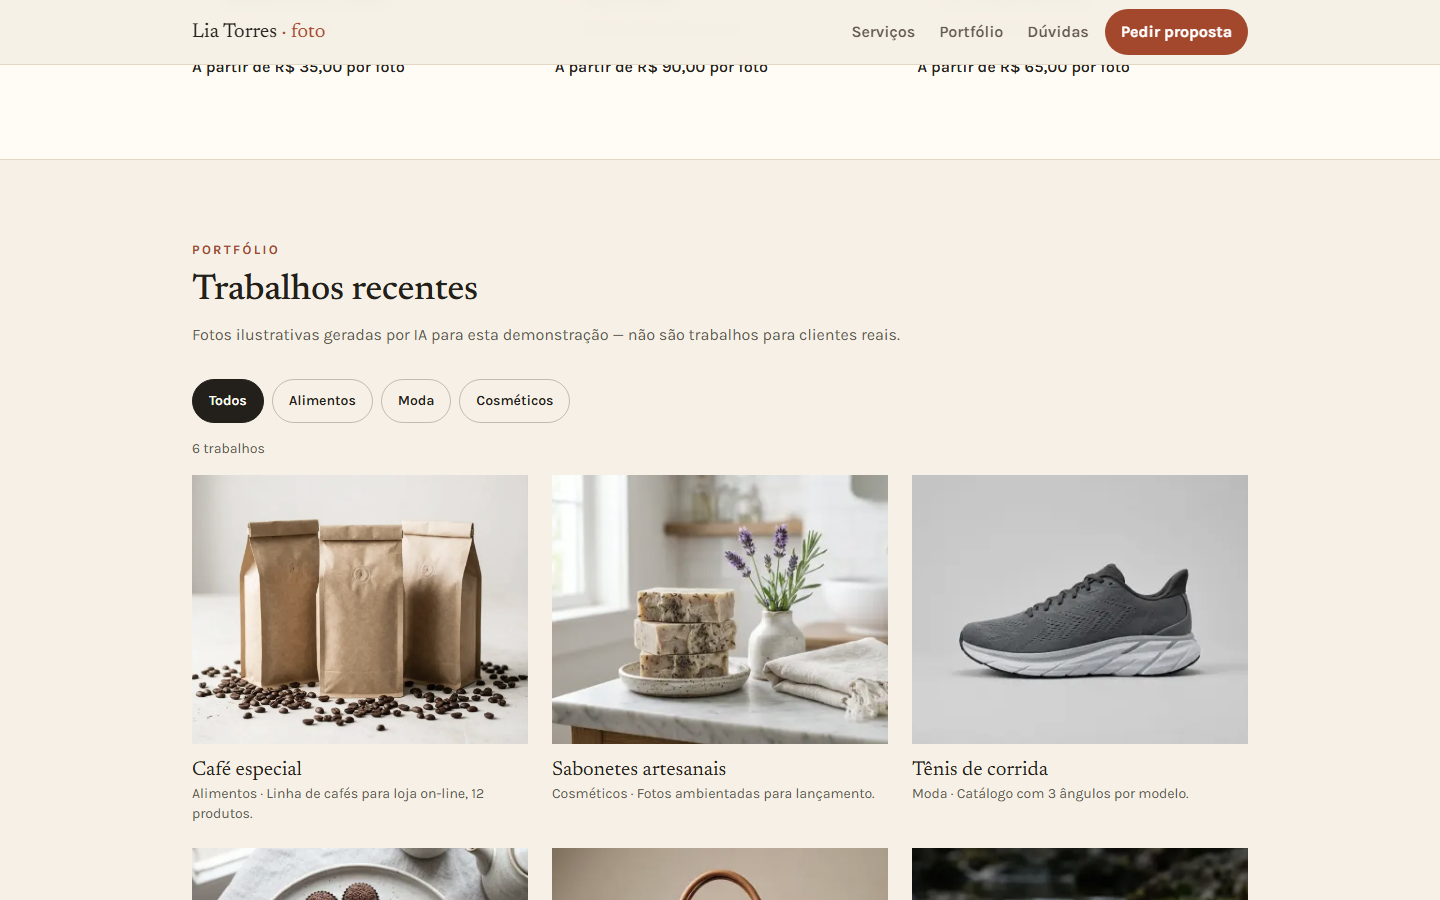
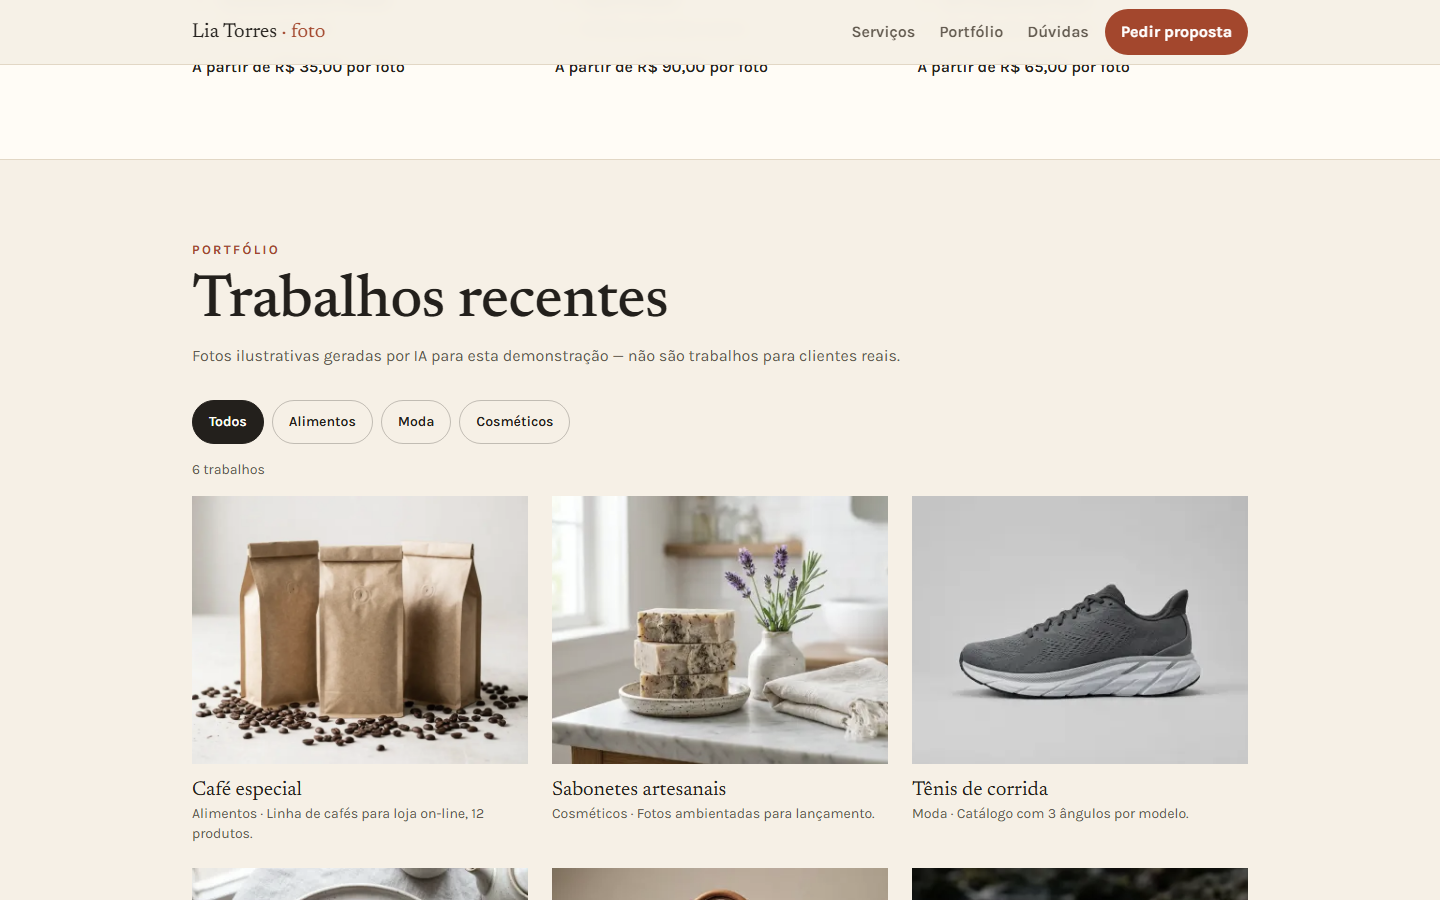
Serviços e fotógrafa com página inicial nova
- Resolve: abre com foto em tela cheia, seção dos três passos do
  orçamento e foto em cada tipo de serviço
- Lia Torres: título grande e mosaico de trabalhos de ponta a ponta,
  serviços numerados
- Capturas das duas demos atualizadas no portfólio

diff --git a/apps/servicos/src/app/page.tsx b/apps/servicos/src/app/page.tsx
@@ -1,26 +1,36 @@
 import { ArrowRight, Check, MapPin, X } from "lucide-react";
 import Link from "next/link";
+import { Faixa } from "@/components/faixa";
 import { Foto } from "@/components/foto";
 import { MessagePreview } from "@/components/message-preview";
 import { WorkArt } from "@/components/work-art";
 import { getServiceType, portfolioWorks, regions, serviceTypes } from "@/data/services";
 import { travelFeeLabel } from "@/lib/request";
 
+// Os três passos do pedido, como descritos no fluxo de solicitação.
+const passos = [
+  { titulo: "Escolha o serviço", texto: "Elétrica, pintura, manutenção, ar-condicionado ou hidráulica." },
+  { titulo: "Confirme a região", texto: "Você vê na hora se atendemos o seu bairro e a taxa de deslocamento." },
+  { titulo: "Conte o que precisa", texto: "Perguntas rápidas sobre o problema e os dias em que você pode receber a equipe." },
+];
+
 export default function HomePage() {
   return (
     <>
-      <section aria-labelledby="hero-title" className="relative overflow-hidden bg-petrol text-white">
+      <section aria-labelledby="hero-title" className="relative isolate overflow-hidden bg-petrol-dark text-white">
+        {/* Foto ilustrativa (gerada por IA) ocupando a abertura; o degradê garante a leitura do texto. */}
+        <Foto id="sala" preload sizes="100vw" className="fundo absolute inset-0 -z-20 size-full" />
         <div
           aria-hidden
-          className="pointer-events-none absolute inset-0 bg-[radial-gradient(40rem_24rem_at_100%_0%,rgb(255_255_255/0.12),transparent_70%)]"
+          className="absolute inset-0 -z-10 bg-gradient-to-r from-petrol-dark via-petrol-dark/90 to-petrol-dark/25 max-md:via-petrol-dark/88 max-md:to-petrol-dark/75"
         />
-        <div className="wrap relative grid items-center gap-12 py-14 sm:py-20 lg:grid-cols-[1.1fr_1fr]">
-         <div>
+        <div className="wrap relative flex min-h-[76svh] flex-col justify-center py-14 sm:py-20">
+         <div className="max-w-3xl">
           <p className="kicker !text-sun">Elétrica · pintura · manutenção · ar · hidráulica</p>
-          <h1 id="hero-title" className="mt-4 max-w-3xl text-4xl leading-tight sm:text-6xl">
+          <h1 id="hero-title" className="mt-4 max-w-3xl text-5xl leading-[1.04] sm:text-7xl">
             Diga o que precisa. A gente chega preparado.
           </h1>
-          <p className="mt-5 max-w-xl text-lg text-white/80">
+          <p className="mt-5 max-w-xl text-lg text-white/90">
             Escolha o serviço, confirme se atendemos a sua região e responda perguntas rápidas. O orçamento chega com
             menos idas e vindas.
           </p>
@@ -34,28 +44,44 @@ export default function HomePage() {
             </Link>
           </div>
          </div>
-         <div aria-hidden className="grid grid-cols-5 grid-rows-2 gap-3 sm:gap-4">
-            <Foto
-              id="sala"
-              preload
-              sizes="(min-width: 1024px) 330px, 60vw"
-              className="parallax col-span-3 row-span-2 h-full min-h-64 w-full rounded-3xl shadow-2xl shadow-black/40 sm:min-h-96"
-            />
-            <Foto id="painel" sizes="(min-width: 1024px) 220px, 40vw" className="parallax-inv col-span-2 aspect-square w-full rounded-3xl shadow-xl shadow-black/30" />
-            <Foto id="fachada" sizes="(min-width: 1024px) 220px, 40vw" className="parallax-inv col-span-2 aspect-square w-full rounded-3xl shadow-xl shadow-black/30" />
-         </div>
+        </div>
+      </section>
+
+      <Faixa className="bg-sun text-lg text-petrol-dark" itens={serviceTypes.map((service) => service.name)} />
+
+      <section aria-labelledby="passos-title" className="bg-petrol py-16 text-white sm:py-20">
+        <div className="wrap">
+          <p className="kicker !text-sun">Como funciona</p>
+          <h2 id="passos-title" className="mt-3 max-w-2xl text-4xl leading-tight sm:text-5xl">
+            Três passos e o orçamento sai certo de primeira.
+          </h2>
+          <ol className="mt-10 grid gap-5 md:grid-cols-3">
+            {passos.map((passo, index) => (
+              <li key={passo.titulo} className="rounded-card border border-white/15 bg-white/5 p-6">
+                <span aria-hidden className="block text-6xl font-bold text-sun">
+                  {index + 1}
+                </span>
+                <h3 className="mt-3 text-2xl">{passo.titulo}</h3>
+                <p className="mt-2 text-white/85">{passo.texto}</p>
+              </li>
+            ))}
+          </ol>
         </div>
       </section>
 
       <section id="servicos" aria-labelledby="servicos-title" className="wrap py-16 sm:py-20">
         <p className="kicker">Serviços</p>
-        <h2 id="servicos-title" className="mt-3 text-3xl sm:text-4xl">
+        <h2 id="servicos-title" className="mt-3 text-4xl sm:text-5xl">
           O que fazemos
         </h2>
-        <ul className="mt-10 grid gap-4 sm:grid-cols-2 lg:grid-cols-3">
-          {serviceTypes.map((service) => (
-            <li key={service.id} className="flex flex-col rounded-card border border-line bg-paper p-6">
-              <h3 className="text-xl">{service.name}</h3>
+        <ul className="mt-10 grid gap-5 sm:grid-cols-2 lg:grid-cols-3">
+          {serviceTypes.map((service) => {
+            const foto = portfolioWorks.find((work) => work.serviceId === service.id)?.id;
+            return (
+            <li key={service.id} className="flex flex-col overflow-hidden rounded-card border border-line bg-paper">
+              {foto && <Foto id={foto} sizes="(min-width: 1024px) 380px, (min-width: 640px) 50vw, 100vw" className="aspect-[16/10] w-full" />}
+              <div className="flex flex-1 flex-col p-6">
+              <h3 className="text-2xl">{service.name}</h3>
               <p className="mt-1 text-muted">{service.summary}</p>
               <ul className="mt-4 flex-1 space-y-1.5 text-sm">
                 {service.includes.map((item) => (
@@ -69,15 +95,17 @@ export default function HomePage() {
                 Pedir orçamento de {service.name.toLowerCase()}
                 <ArrowRight aria-hidden className="size-4" />
               </Link>
+              </div>
             </li>
-          ))}
+            );
+          })}
         </ul>
       </section>
 
       <section id="trabalhos" aria-labelledby="trabalhos-title" className="border-y border-line bg-paper py-16 sm:py-20">
         <div className="wrap">
           <p className="kicker">Trabalhos</p>
-          <h2 id="trabalhos-title" className="mt-3 text-3xl sm:text-4xl">
+          <h2 id="trabalhos-title" className="mt-3 text-4xl sm:text-5xl">
             Portfólio
           </h2>
           <p className="mt-3 text-muted">Fotos ilustrativas geradas por IA para esta demonstração — não são trabalhos reais.</p>

diff --git a/apps/autonomo/src/app/page.tsx b/apps/autonomo/src/app/page.tsx
@@ -1,5 +1,6 @@
 import { ArrowRight, Check } from "lucide-react";
 import Link from "next/link";
+import { Faixa } from "@/components/faixa";
 import { MessagePreview } from "@/components/message-preview";
 import { PortfolioGrid } from "@/components/portfolio-grid";
 import { WorkArt } from "@/components/work-art";
@@ -9,41 +10,54 @@ import { formatBRL } from "@/lib/money";
 export default function HomePage() {
   return (
     <>
-      <section aria-labelledby="hero-title" className="wrap grid items-center gap-10 py-14 sm:py-20 lg:grid-cols-[1.2fr_1fr]">
-        <div>
+      <section aria-labelledby="hero-title" className="overflow-hidden pt-14 sm:pt-20">
+        <div className="wrap">
           <p className="kicker">{professional.role}</p>
-          <h1 id="hero-title" className="mt-4 text-5xl leading-[1.05] sm:text-7xl">
+          <h1 id="hero-title" className="mt-4 max-w-5xl text-6xl leading-[0.98] sm:text-8xl lg:text-9xl">
             {professional.pitch}
           </h1>
-          <p className="mt-6 max-w-xl text-lg leading-relaxed text-muted">{professional.about}</p>
-          <div className="mt-8 flex flex-col gap-3 sm:flex-row">
-            <Link href="/proposta" className="btn btn-primary">
-              Pedir proposta
-              <ArrowRight aria-hidden className="size-4" />
-            </Link>
-            <Link href="#portfolio" className="btn btn-secondary">
-              Ver portfólio
-            </Link>
+          <div className="mt-8 grid gap-6 lg:grid-cols-[1.2fr_1fr] lg:items-end">
+            <p className="max-w-xl text-lg leading-relaxed text-muted">{professional.about}</p>
+            <div className="flex flex-col gap-3 sm:flex-row lg:justify-end">
+              <Link href="/proposta" className="btn btn-primary">
+                Pedir proposta
+                <ArrowRight aria-hidden className="size-4" />
+              </Link>
+              <Link href="#portfolio" className="btn btn-secondary">
+                Ver portfólio
+              </Link>
+            </div>
           </div>
         </div>
-        <div className="grid grid-cols-2 gap-3" aria-hidden>
-          <WorkArt variant={0} sizes="(min-width: 1024px) 520px, 100vw" preload className="parallax col-span-2 h-auto w-full" />
-          <WorkArt variant={5} sizes="(min-width: 1024px) 260px, 50vw" className="parallax-inv h-auto w-full" />
-          <WorkArt variant={1} sizes="(min-width: 1024px) 260px, 50vw" className="parallax-inv h-auto w-full" />
+        {/* Mosaico de trabalhos (fotos ilustrativas, geradas por IA), de ponta a ponta. */}
+        <div className="mt-12 grid grid-cols-2 gap-2 px-2 sm:gap-3 sm:px-3 md:grid-cols-4" aria-hidden>
+          <WorkArt variant={0} sizes="(min-width: 768px) 50vw, 100vw" preload className="col-span-2 row-span-2 !aspect-auto h-full min-h-72 w-full" />
+          <WorkArt variant={5} sizes="(min-width: 768px) 25vw, 50vw" className="h-auto w-full" />
+          <WorkArt variant={1} sizes="(min-width: 768px) 25vw, 50vw" className="h-auto w-full" />
+          <WorkArt variant={4} sizes="(min-width: 768px) 25vw, 50vw" className="h-auto w-full" />
+          <WorkArt variant={3} sizes="(min-width: 768px) 25vw, 50vw" className="h-auto w-full" />
         </div>
       </section>
 
-      <section id="servicos" aria-labelledby="servicos-title" className="border-y border-line bg-paper py-16 sm:py-20">
+      <Faixa
+        className="mt-2 bg-ink font-serif text-xl text-paper sm:mt-3"
+        itens={[...offers.map((offer) => offer.name), "Luz controlada", "Edição cuidadosa"]}
+      />
+
+      <section id="servicos" aria-labelledby="servicos-title" className="border-b border-line bg-paper py-16 sm:py-20">
         <div className="wrap">
           <p className="kicker">Serviços</p>
-          <h2 id="servicos-title" className="mt-3 text-4xl">
+          <h2 id="servicos-title" className="mt-3 text-4xl sm:text-6xl">
             Como posso ajudar
           </h2>
           <p className="mt-3 text-muted">Valores de referência demonstrativos; o valor final vem na proposta.</p>
           <ul className="mt-10 grid gap-8 md:grid-cols-3">
-            {offers.map((offer) => (
+            {offers.map((offer, index) => (
               <li key={offer.id} className="border-t-2 border-ink pt-5">
-                <h3 className="text-2xl">{offer.name}</h3>
+                <span aria-hidden className="block font-serif text-6xl text-terra">
+                  {String(index + 1).padStart(2, "0")}
+                </span>
+                <h3 className="mt-2 text-3xl">{offer.name}</h3>
                 <p className="mt-2 text-muted">{offer.description}</p>
                 <ul className="mt-4 space-y-1.5 text-sm">
                   {offer.includes.map((item) => (
@@ -62,7 +76,7 @@ export default function HomePage() {
 
       <section id="portfolio" aria-labelledby="portfolio-title" className="wrap py-16 sm:py-20">
         <p className="kicker">Portfólio</p>
-        <h2 id="portfolio-title" className="mt-3 text-4xl">
+        <h2 id="portfolio-title" className="mt-3 text-4xl sm:text-6xl">
           Trabalhos recentes
         </h2>
         <p className="mt-3 mb-8 text-muted">Fotos ilustrativas geradas por IA para esta demonstração — não são trabalhos para clientes reais.</p>
